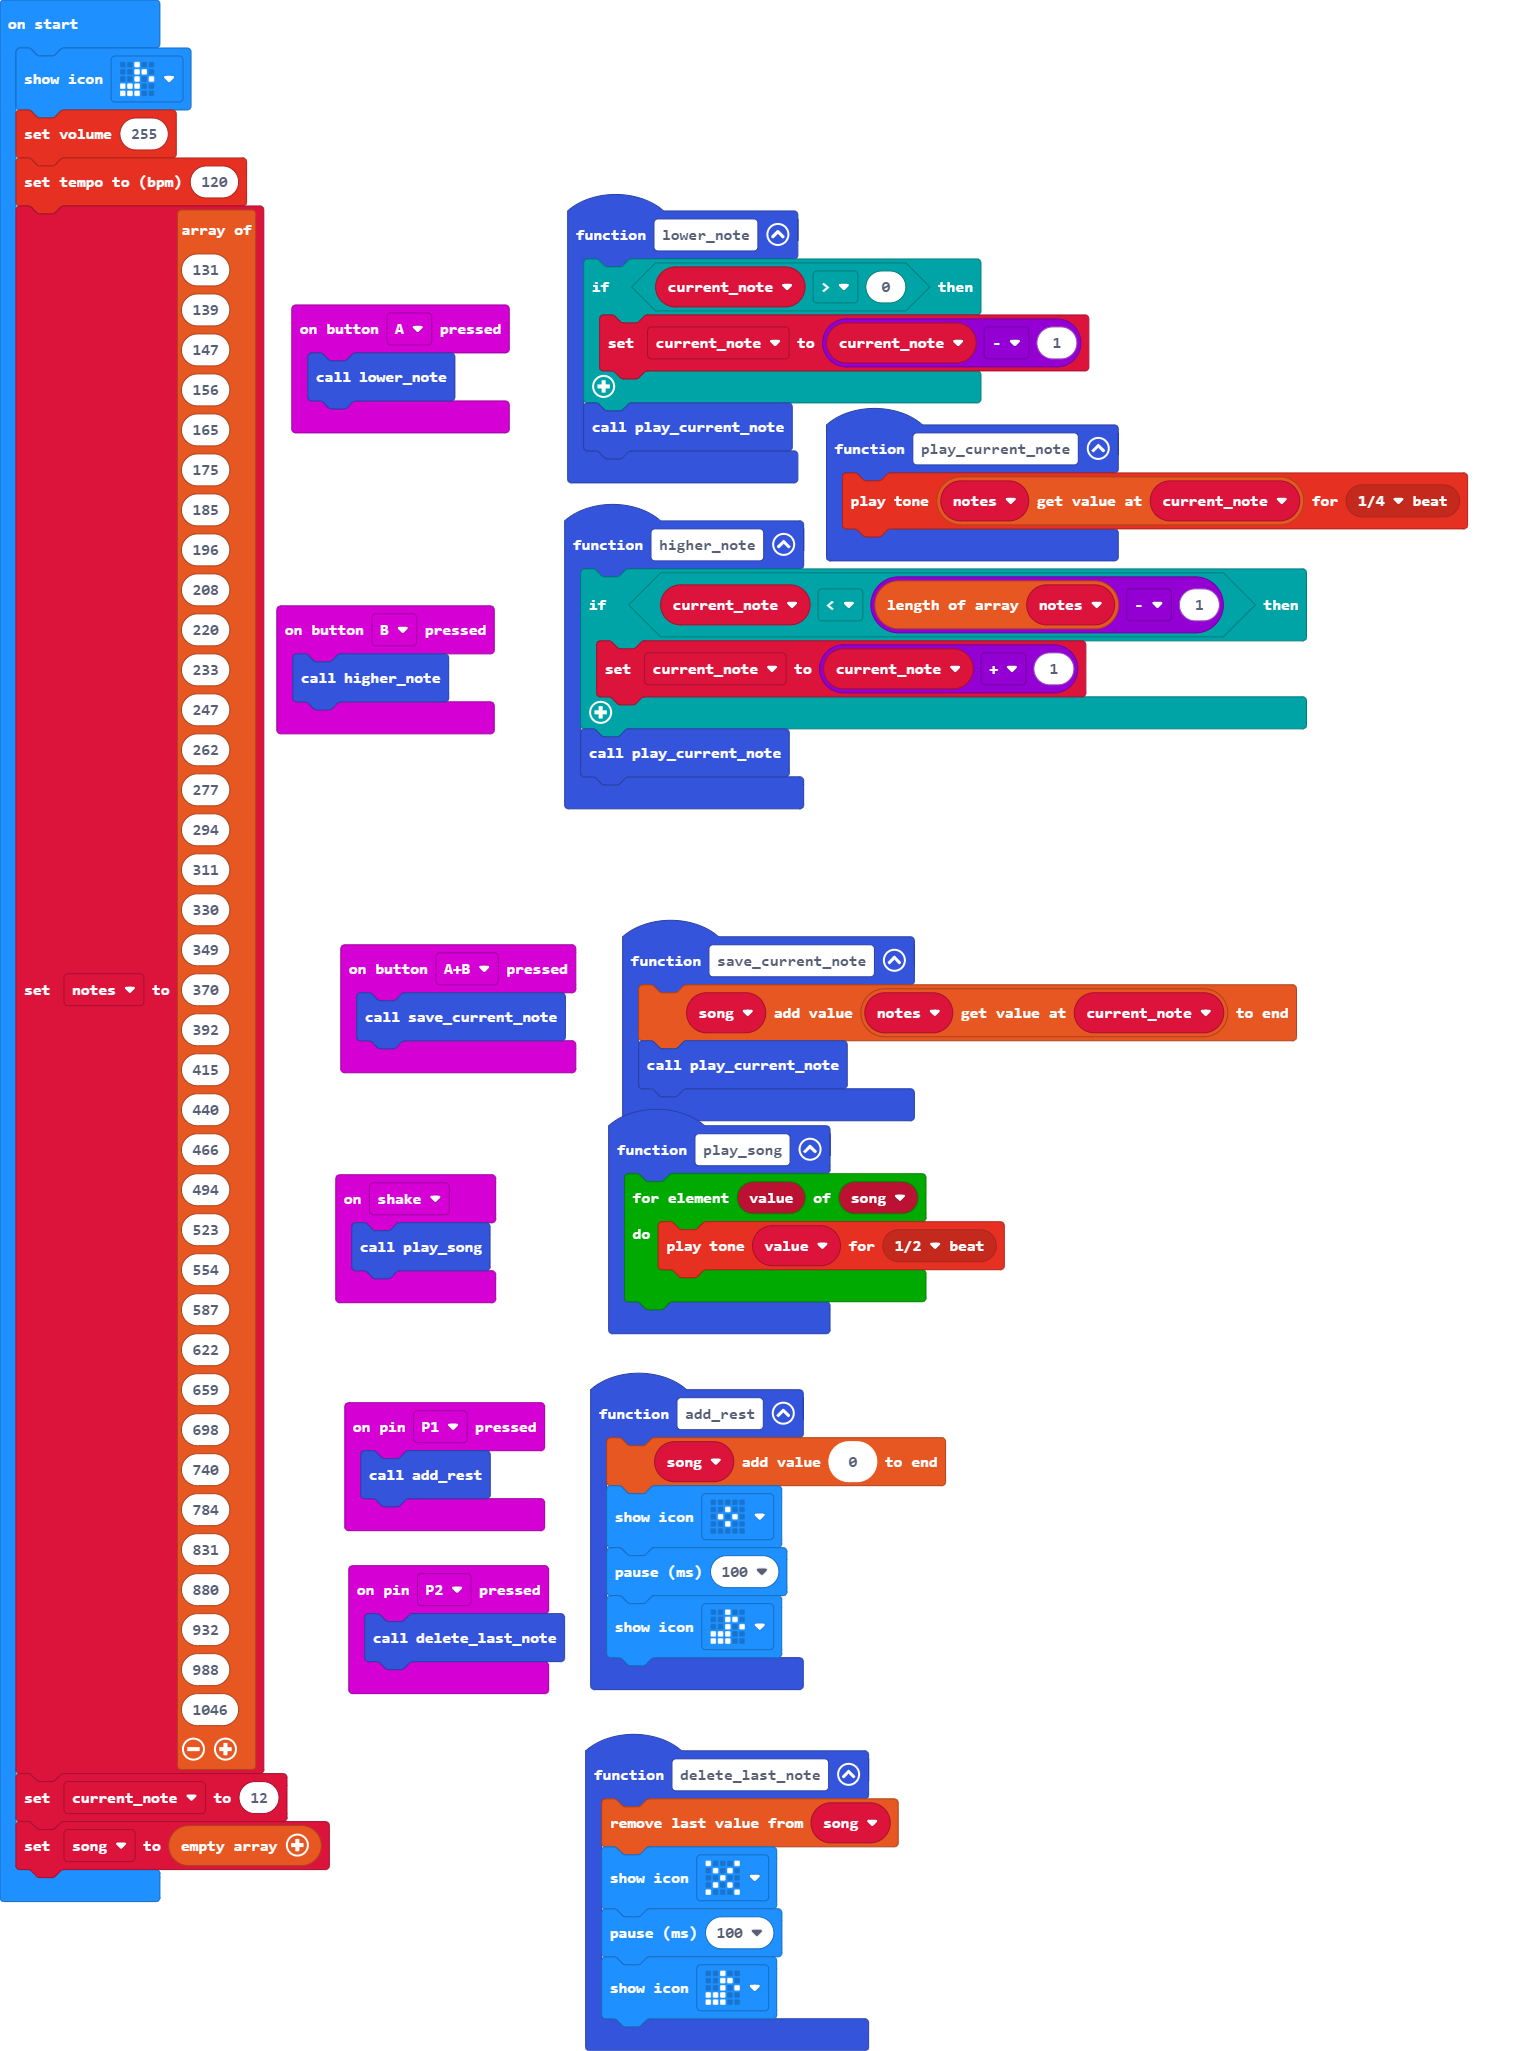
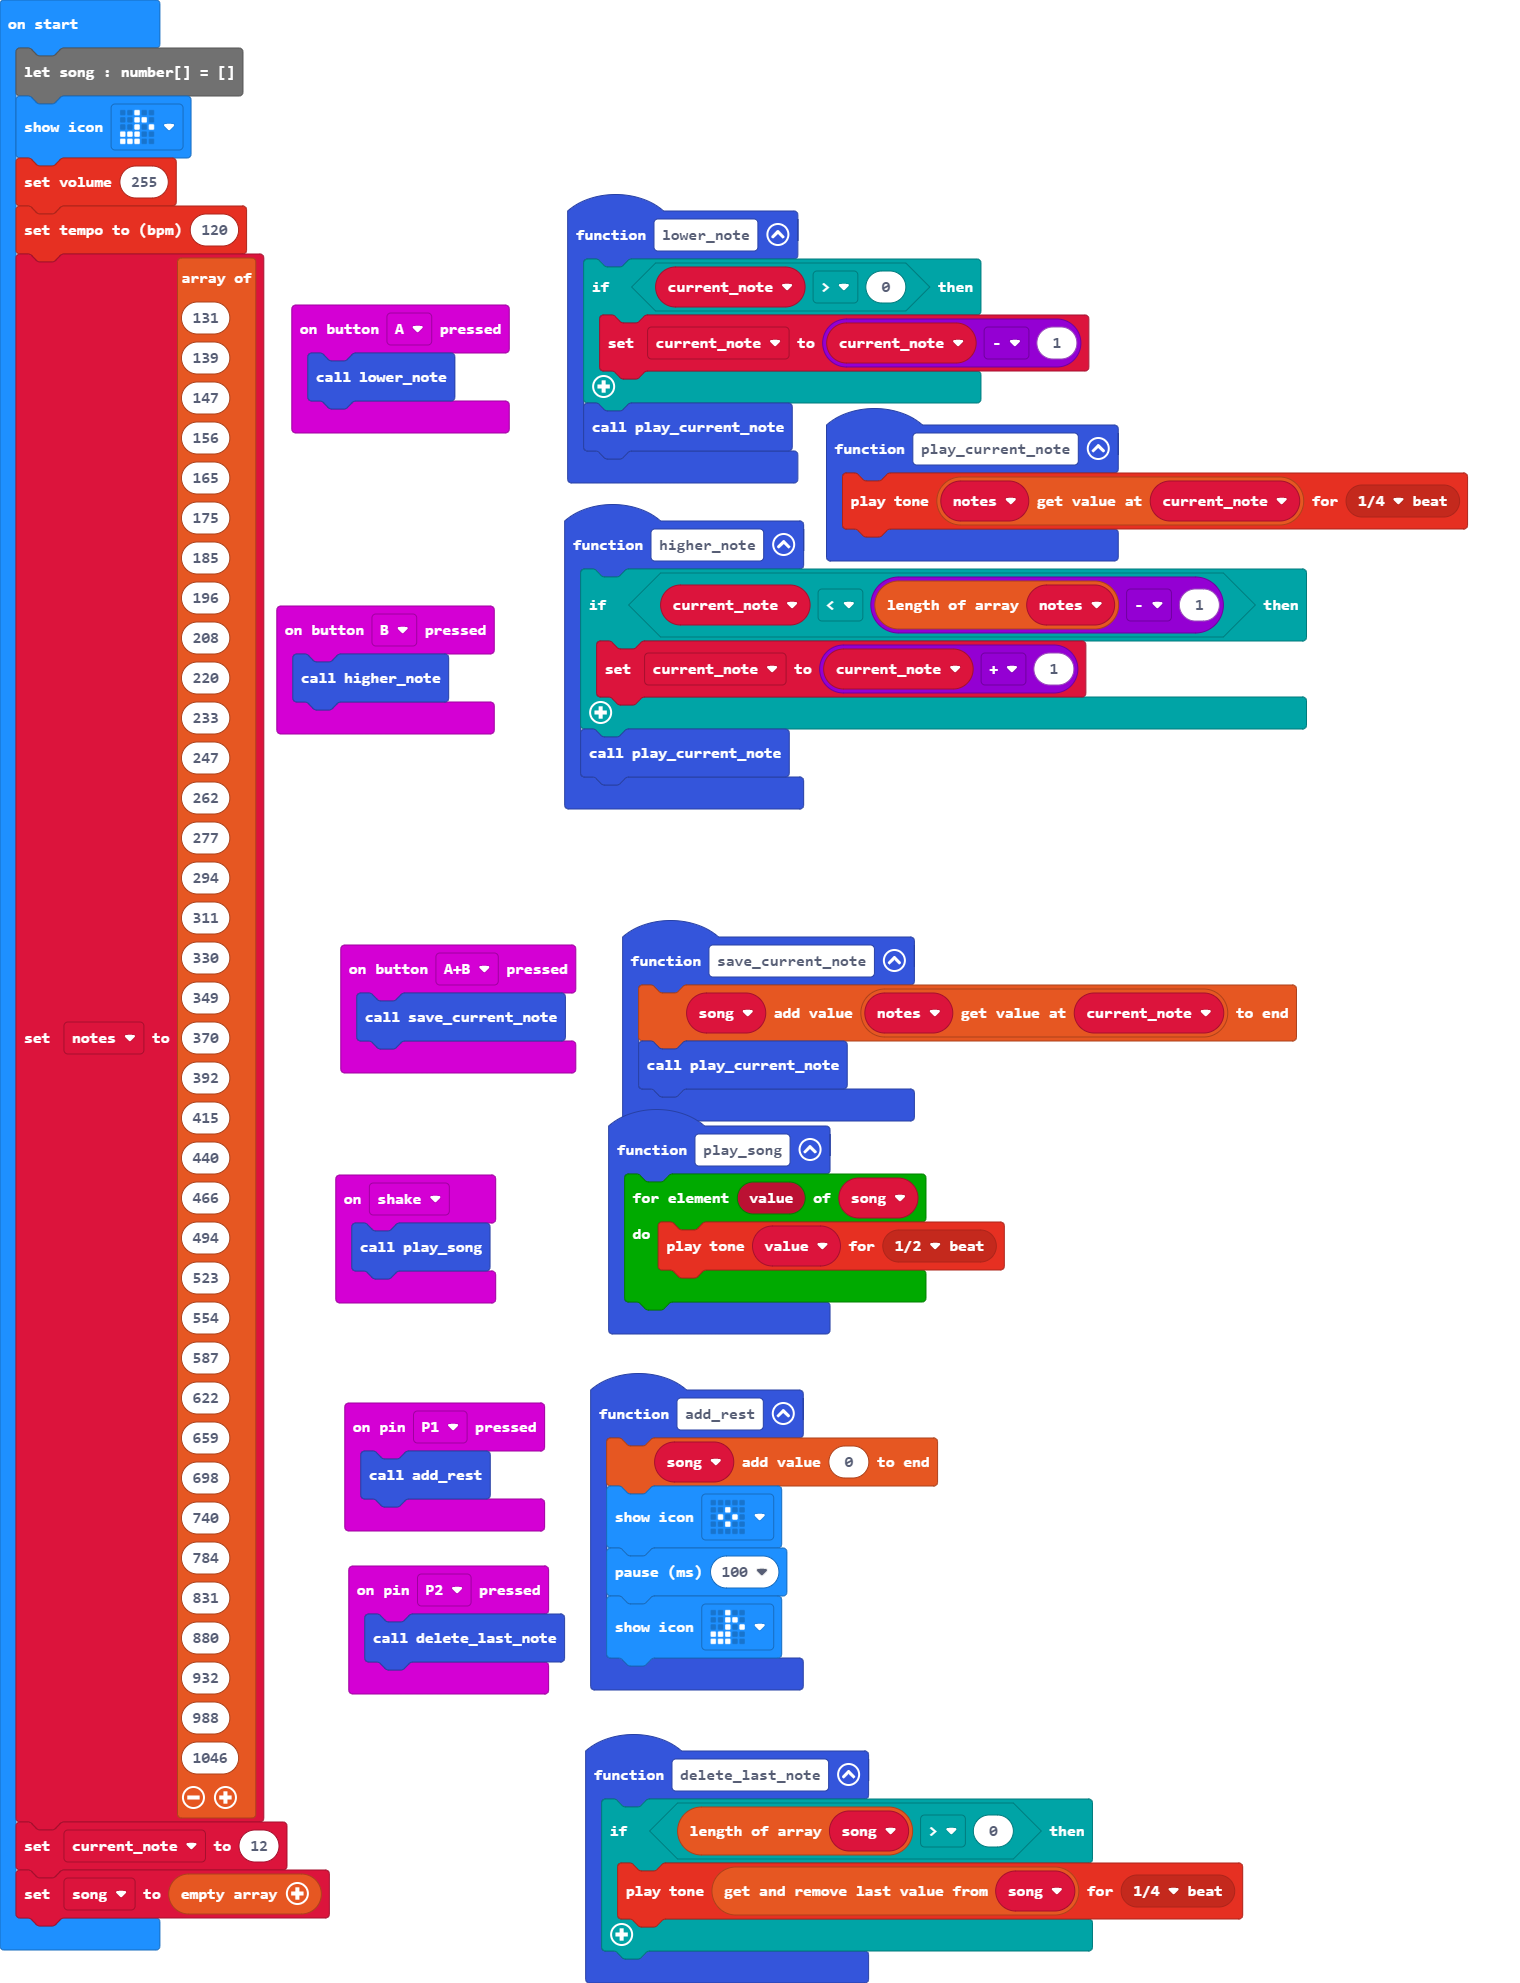
Update pxt.json, main.blocks, main.ts

Changed region(s): [[0.2164, 0.0923, 0.9586, 1.0], [0.0, 0.0, 0.3401, 0.9844], [0.1855, 0.2769, 0.3401, 0.3691]]

diff --git a/main.ts b/main.ts
@@ -1,71 +1,59 @@
-function delete_last_note() {
-    _py.py_array_pop(song)
-    basic.showIcon(IconNames.No)
-    basic.pause(100)
-    basic.showIcon(IconNames.EigthNote)
+function delete_last_note () {
+    if (song.length > 0) {
+        music.playTone(song.pop(), music.beat(BeatFraction.Quarter))
+    }
 }
-
-input.onButtonPressed(Button.A, function on_button_pressed_a() {
+input.onButtonPressed(Button.A, function () {
     lower_note()
 })
-function lower_note() {
-    
+function lower_note () {
     if (current_note > 0) {
         current_note = current_note - 1
     }
-    
     play_current_note()
 }
-
-input.onPinPressed(TouchPin.P2, function on_pin_pressed_p2() {
+input.onPinPressed(TouchPin.P2, function () {
     delete_last_note()
 })
-function save_current_note() {
+function save_current_note () {
     song.push(notes[current_note])
     play_current_note()
 }
-
-input.onButtonPressed(Button.AB, function on_button_pressed_ab() {
+input.onButtonPressed(Button.AB, function () {
     save_current_note()
 })
-input.onButtonPressed(Button.B, function on_button_pressed_b() {
+input.onButtonPressed(Button.B, function () {
     higher_note()
 })
-input.onPinPressed(TouchPin.P1, function on_pin_pressed_p1() {
+input.onPinPressed(TouchPin.P1, function () {
     add_rest()
 })
-function play_current_note() {
+function play_current_note () {
     music.playTone(notes[current_note], music.beat(BeatFraction.Quarter))
 }
-
-input.onGesture(Gesture.Shake, function on_gesture_shake() {
+input.onGesture(Gesture.Shake, function () {
     play_song()
 })
-function add_rest() {
+function add_rest () {
     song.push(0)
     basic.showIcon(IconNames.SmallDiamond)
     basic.pause(100)
     basic.showIcon(IconNames.EigthNote)
 }
-
-function play_song() {
+function play_song () {
     for (let value of song) {
         music.playTone(value, music.beat(BeatFraction.Half))
     }
 }
-
-function higher_note() {
-    
+function higher_note () {
     if (current_note < notes.length - 1) {
         current_note = current_note + 1
     }
-    
     play_current_note()
 }
-
-let song : number[] = []
 let current_note = 0
-let notes : number[] = []
+let notes: number[] = []
+let song : number[] = []
 basic.showIcon(IconNames.EigthNote)
 music.setVolume(255)
 music.setTempo(120)
